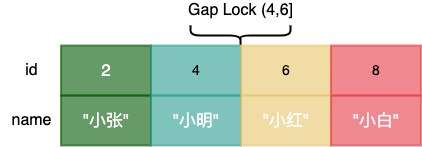
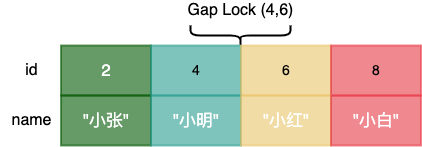
feat:MySQL 中的锁

Changed region(s): [[0.4313, 0.0272, 0.7085, 0.1361]]

diff --git a/mysql/3、MySQL中的锁.md b/mysql/3、MySQL中的锁.md
@@ -326,7 +326,7 @@ select ... for update;
 
 <img src="/img/mysql/mysql-next-key-case-1.png"  alt="mysql" />  
 
-如上图，上面加了 id 范围为 `(4,6]` 的间隙锁  ,那么其他事务进行 id 为 5 的主键数据插入就会被阻塞，直到间隙锁被释放。   
+如上图，上面加了 id 范围为 `(4,6)` 的间隙锁  ,那么其他事务进行 id 为 5 的主键数据插入就会被阻塞，直到间隙锁被释放。   
 
 间隙锁之间是兼容的，两个事务之间可以共同持有包含相同间隙的间隙锁，同时也不存在互斥关系，间隙锁的目的只是为了解决幻读问题而提出的。    
 
@@ -345,6 +345,27 @@ select ... for update;
 一个事务在数据插入的是时候会判断插入的位置是否加了被其它的事务加了间隙锁或临键锁。如果有的话，就会阻塞，直到间隙锁或临键锁被释放才能执行后面的插入。   
 
 因为插入意向锁也是一种意向锁，意向锁只是表示一种意向，所以插入意向锁之间不会互相冲突，多个插入操作同时插入同一个 gap 时，无需互相等待。   
+
+### 加锁的原则
+
+分析完了 MySQL 中几个主要的锁,再来看下这几个锁在 MySQL 中的使用。   
+
+这里引用下丁奇大佬在极客时间专栏中的总结   
+
+MySQL 后面的版本可能会改变加锁策略，这个原则是在下面版本中总结的，`5.x系列<=5.7.24，8.0系列 <=8.0.13`。   
+
+加锁原则：  
+
+1、加锁的对象是索引，加锁的基本单位是 `next-key lock`，是前开后闭区间；  
+
+2、只有语句查找过程中访问到的对象才会加锁；  
+
+加锁优化：  
+
+1、索引中的等值查询，如果加锁的对象是唯一索引，这时候锁就从 `next-key lock`，变成行锁了；    
+
+2、索引中的查询，如果加锁的对象不是唯一索引，就会锁住满足条件的范围数据，向右遍历最后一个不满足条件的值，并将其锁住，这时候
+
 
 ### 参考
 
